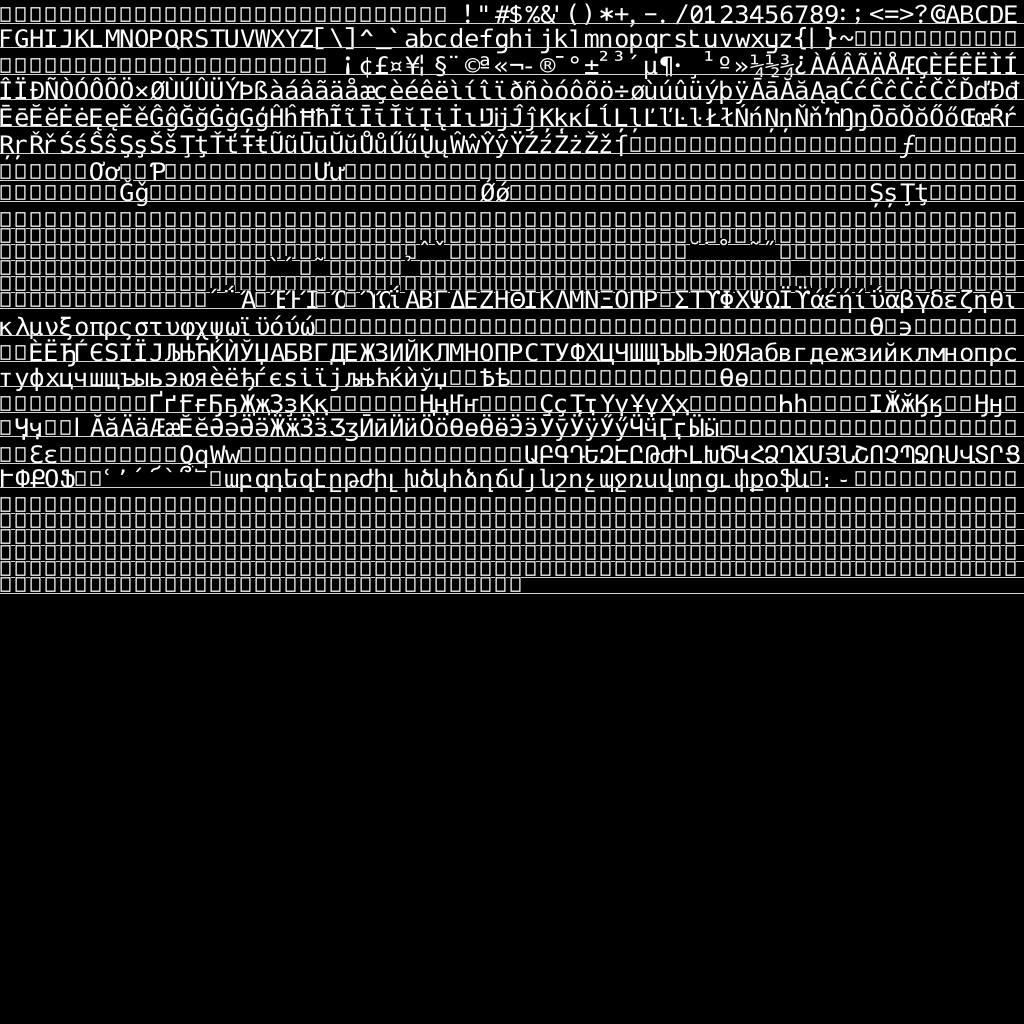
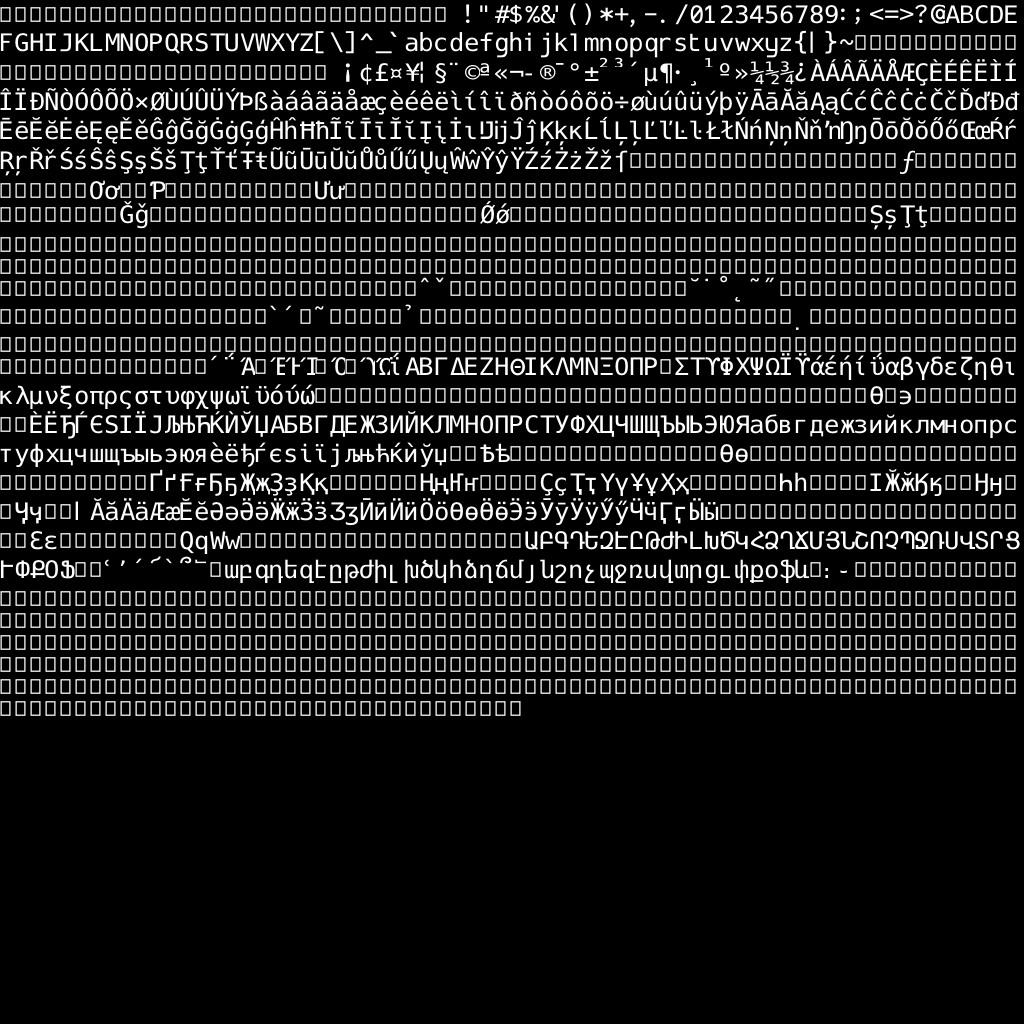
text rendering shader and spacing fixed

Changed region(s): [[0.0, 0.0, 1.0, 0.7188]]

diff --git a/src/Engine/ecs/systems/RenderSystem2D.cpp b/src/Engine/ecs/systems/RenderSystem2D.cpp
@@ -12,12 +12,6 @@
 
 using namespace BB;
 
-static void AddBaselineToRow(unsigned char* a_bitmap, const int a_bitmap_x, const int a_current_y, const int a_baseline)
-{
-    const int offset = (a_current_y + a_baseline) * a_bitmap_x;
-    memset(a_bitmap + offset, 211, a_bitmap_x);
-}
-
 FontAtlas BB::CreateFontAtlas(MemoryArena& a_arena, const PathString& a_font_path, const float a_pixel_height, const int a_first_char)
 {
     const Buffer file = OSReadFile(a_arena, a_font_path.c_str());
@@ -40,7 +34,7 @@ FontAtlas BB::CreateFontAtlas(MemoryArena& a_arena, const PathString& a_font_pat
         stbtt_GetCodepointBitmapBox(&font, char_code, scale, scale, &x0, &y0, &x1, &y1);
 
         const int width = x1 - x0;
-        const int height = y1 - y0;
+        const int height = baseline + y1;
 
         if (width > max_width) max_width = width;
         if (height > max_height) max_height = height;
@@ -68,7 +62,7 @@ FontAtlas BB::CreateFontAtlas(MemoryArena& a_arena, const PathString& a_font_pat
     atl.per_frame[0] = AllocateBufferDescriptor();
     atl.per_frame[1] = AllocateBufferDescriptor();
     atl.per_frame[2] = AllocateBufferDescriptor();
-    atl.text_height = static_cast<float>(ascent - descent + gap) * scale;
+    atl.text_height = ceilf(static_cast<float>(ascent - descent + gap) * scale);
 
     int current_x = 0;
     int current_y = 0;
@@ -81,21 +75,20 @@ FontAtlas BB::CreateFontAtlas(MemoryArena& a_arena, const PathString& a_font_pat
         stbtt_GetCodepointHMetrics(&font, char_code, &advance, &lsb);
         stbtt_GetCodepointBitmapBox(&font, char_code, scale, scale, &x0, &y0, &x1, &y1);
         const int width = x1 - x0;
-        const int height = y1 - y0;
+        const int height = baseline + y1;
 
         // Check if we need to move to next row
-        if (current_x + width > atlas_size) {
-            AddBaselineToRow(atl.bitmap, atlas_size, current_y, baseline);
+        if (current_x + width > atlas_size) 
+        {
             current_x = 0;
-            current_y += row_height + 1;
+            current_y += row_height;
             row_height = 0;
         }
         const int advance_scaled = static_cast<int>(static_cast<float>(advance) * scale);
         atl.glyphs[i].pos.x = current_x;
-        atl.glyphs[i].pos.y = current_y + baseline + y0;
+        atl.glyphs[i].pos.y = current_y;
         atl.glyphs[i].extent.x = width;
         atl.glyphs[i].extent.y = height;
-        atl.glyphs[i].y_offset = static_cast<float>(baseline + y0);
         atl.glyphs[i].advance = advance_scaled;
 
         if (width > 0 && height > 0)
@@ -109,7 +102,6 @@ FontAtlas BB::CreateFontAtlas(MemoryArena& a_arena, const PathString& a_font_pat
         if (height > row_height)
             row_height = height;
     }
-    AddBaselineToRow(atl.bitmap, atlas_size, current_y, baseline);
 
     MemoryArenaScope(a_arena)
     {
@@ -151,7 +143,7 @@ bool BB::FontAtlasWriteImage(const PathString& a_path, const FontAtlas& a_atlas)
     return Asset::WriteImage(a_path.GetView(), a_atlas.extent, 1, a_atlas.bitmap);
 }
 
-bool BB::RenderText(FontAtlas& a_font_atlas, const RCommandList a_list, GPUUploadRingAllocator& a_ring_buffer, const GPUFenceValue a_fence_value, const uint2 a_draw_area, const RImageView a_render_target, GPULinearBuffer& a_frame_buffer, const float2 a_text_size, const float2 a_text_start_pos, const StringView a_string)
+bool BB::RenderText(FontAtlas& a_font_atlas, const RCommandList a_list, GPUUploadRingAllocator& a_ring_buffer, const GPUFenceValue a_fence_value, const uint2 a_draw_area, const RImageView a_render_target, GPULinearBuffer& a_frame_buffer, const float2 a_text_size, const float2 a_text_start_pos, const float a_spacing, const StringView a_string)
 {
     // temp
     const RDescriptorIndex buffer_desc = a_font_atlas.per_frame[a_font_atlas.current_frame];
@@ -173,8 +165,9 @@ bool BB::RenderText(FontAtlas& a_font_atlas, const RCommandList a_list, GPUUploa
         const char ch = a_string[i];
         if (ch == '\n')
         {
+            const float spacing = a_font_atlas.text_height * a_text_size.y + a_spacing;
             pos.x = a_text_start_pos.x;
-            pos.y += a_font_atlas.text_height;
+            pos.y += spacing;
         }
         else
         {
@@ -188,13 +181,13 @@ bool BB::RenderText(FontAtlas& a_font_atlas, const RCommandList a_list, GPUUploa
             const float2 tex_pos = float2(static_cast<float>(rd_gly.pos.x), static_cast<float>(rd_gly.pos.y));
 
             Glyph2D glyph;
-            glyph.pos = float2(pos.x, pos.y + rd_gly.y_offset);
+            glyph.pos = float2(pos.x, pos.y);
             glyph.extent = float2(static_cast<float>(rd_gly.extent.x), static_cast<float>(rd_gly.extent.y));
             glyph.uv0 = tex_pos / float2(static_cast<float>(a_font_atlas.extent.x), static_cast<float>(a_font_atlas.extent.y));
             glyph.uv1 = (tex_pos + glyph.extent) / float2(static_cast<float>(a_font_atlas.extent.x), static_cast<float>(a_font_atlas.extent.y));
 
             a_ring_buffer.MemcpyIntoBuffer(upload_start + i * sizeof(glyph), &glyph, sizeof(glyph));
-            pos.x += static_cast<float>(rd_gly.advance) * a_text_size.x + glyph.extent.x;
+            pos.x += static_cast<float>(rd_gly.advance) * a_text_size.x;
         }
     }
 

diff --git a/src/Engine/ecs/systems/RenderSystem2D.hpp b/src/Engine/ecs/systems/RenderSystem2D.hpp
@@ -10,7 +10,6 @@ namespace BB
         int2 pos;
         int2 extent;
         int advance;
-        float y_offset;
     };
 
     struct FontAtlas
@@ -36,5 +35,5 @@ namespace BB
     FontAtlas CreateFontAtlas(MemoryArena& a_arena, const PathString& a_font_path, const float a_pixel_height, const int a_first_char);
     bool FontAtlasWriteImage(const PathString& a_path, const FontAtlas& a_atlas);
 
-    bool RenderText(FontAtlas& a_font_atlas, const RCommandList a_list, GPUUploadRingAllocator& a_ring_buffer, const GPUFenceValue a_fence_value, const uint2 a_draw_area, const RImageView a_render_target, GPULinearBuffer& a_frame_buffer, const float2 a_text_size, const float2 a_text_start_pos, const StringView a_string);
+    bool RenderText(FontAtlas& a_font_atlas, const RCommandList a_list, GPUUploadRingAllocator& a_ring_buffer, const GPUFenceValue a_fence_value, const uint2 a_draw_area, const RImageView a_render_target, GPULinearBuffer& a_frame_buffer, const float2 a_text_size, const float2 a_text_start_pos, const float a_spacing, const StringView a_string);
 }

diff --git a/src/Engine/ecs/systems/RenderSystem.cpp b/src/Engine/ecs/systems/RenderSystem.cpp
@@ -244,7 +244,7 @@ void RenderSystem::UpdateRenderSystem(MemoryArena& a_per_frame_arena, const RCom
     if (!m_options.skip_bloom)
 	    m_bloom_stage.ExecutePass(a_list, pfd.bloom.resolution, pfd.bloom.image, pfd.bloom.descriptor_index_0, pfd.bloom.descriptor_index_1, a_draw_area, GetImageView(pfd.render_target_view));
 
-    RenderText(m_font_atlas, a_list, m_upload_allocator, m_next_fence_value, a_draw_area, GetImageView(pfd.render_target_view), pfd.storage_buffer, float2(1.f), float2(0.f, 100.f), "TT Fonts are cool\nbut how do I center my text\ncorrectly please help");
+    RenderText(m_font_atlas, a_list, m_upload_allocator, m_next_fence_value, a_draw_area, GetImageView(pfd.render_target_view), pfd.storage_buffer, float2(4.f), float2(0.f), -8.f, "TT Fonts are cool.\nbut how do I center my text,\ncorrectly please help");
 }
 
 void RenderSystem::DebugDraw(const RCommandList a_list, const uint2 a_draw_area)
